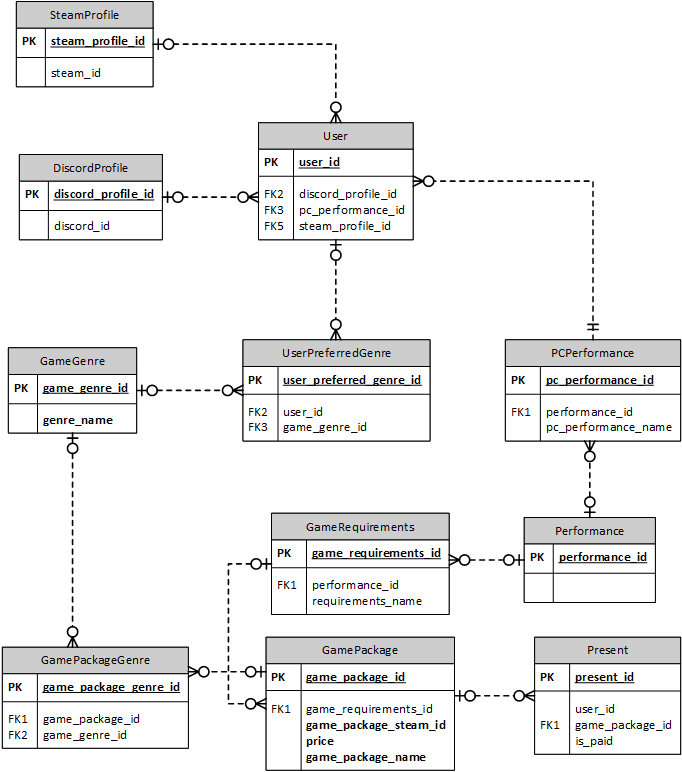
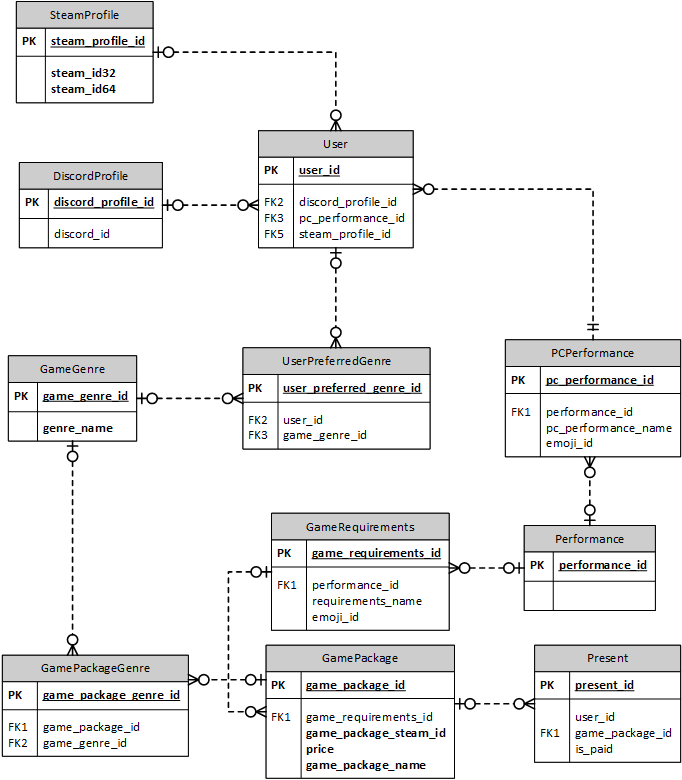
Change database schema

diff --git a/secretsanta/model/user.py b/secretsanta/model/user.py
@@ -9,7 +9,7 @@ from .discordprofile import DiscordProfile
 class User(BaseModel):
     id = PrimaryKeyField(column_name='user_id')
     discord_profile = ForeignKeyField(DiscordProfile, column_name='discord_profile_id')
-    steam_profile = ForeignKeyField(SteamProfile, column_name='steam_profile_id')
+    steam_profile = ForeignKeyField(SteamProfile, column_name='steam_profile_id', null=True)
     pc_performance = ForeignKeyField(PCPerformance, column_name='pc_performance_id', null=True)
 
     class Meta:

diff --git a/secretsanta/model/steamprofile.py b/secretsanta/model/steamprofile.py
@@ -5,7 +5,8 @@ from .basemodel import BaseModel
 
 class SteamProfile(BaseModel):
     id = PrimaryKeyField(column_name='steam_profile_id')
-    steam_id = BigIntegerField(column_name='steam_id')
+    steam_id32 = BigIntegerField(column_name='steam_id32')
+    steam_id64 = BigIntegerField(column_name='steam_id64')
 
     class Meta:
         table_name = 'SteamProfile'
